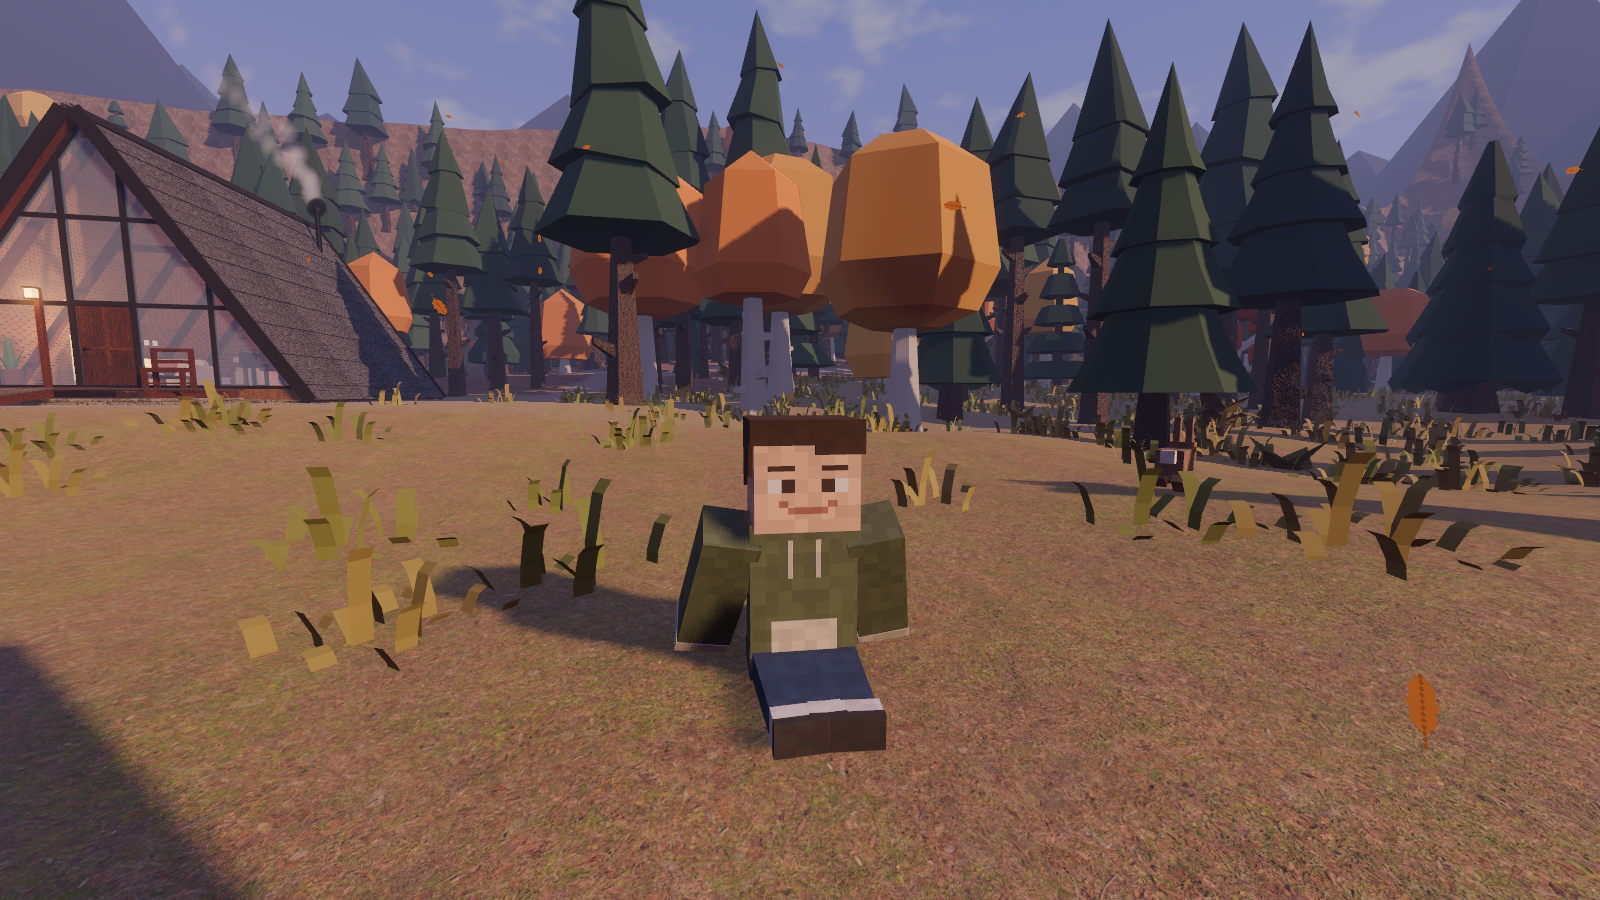
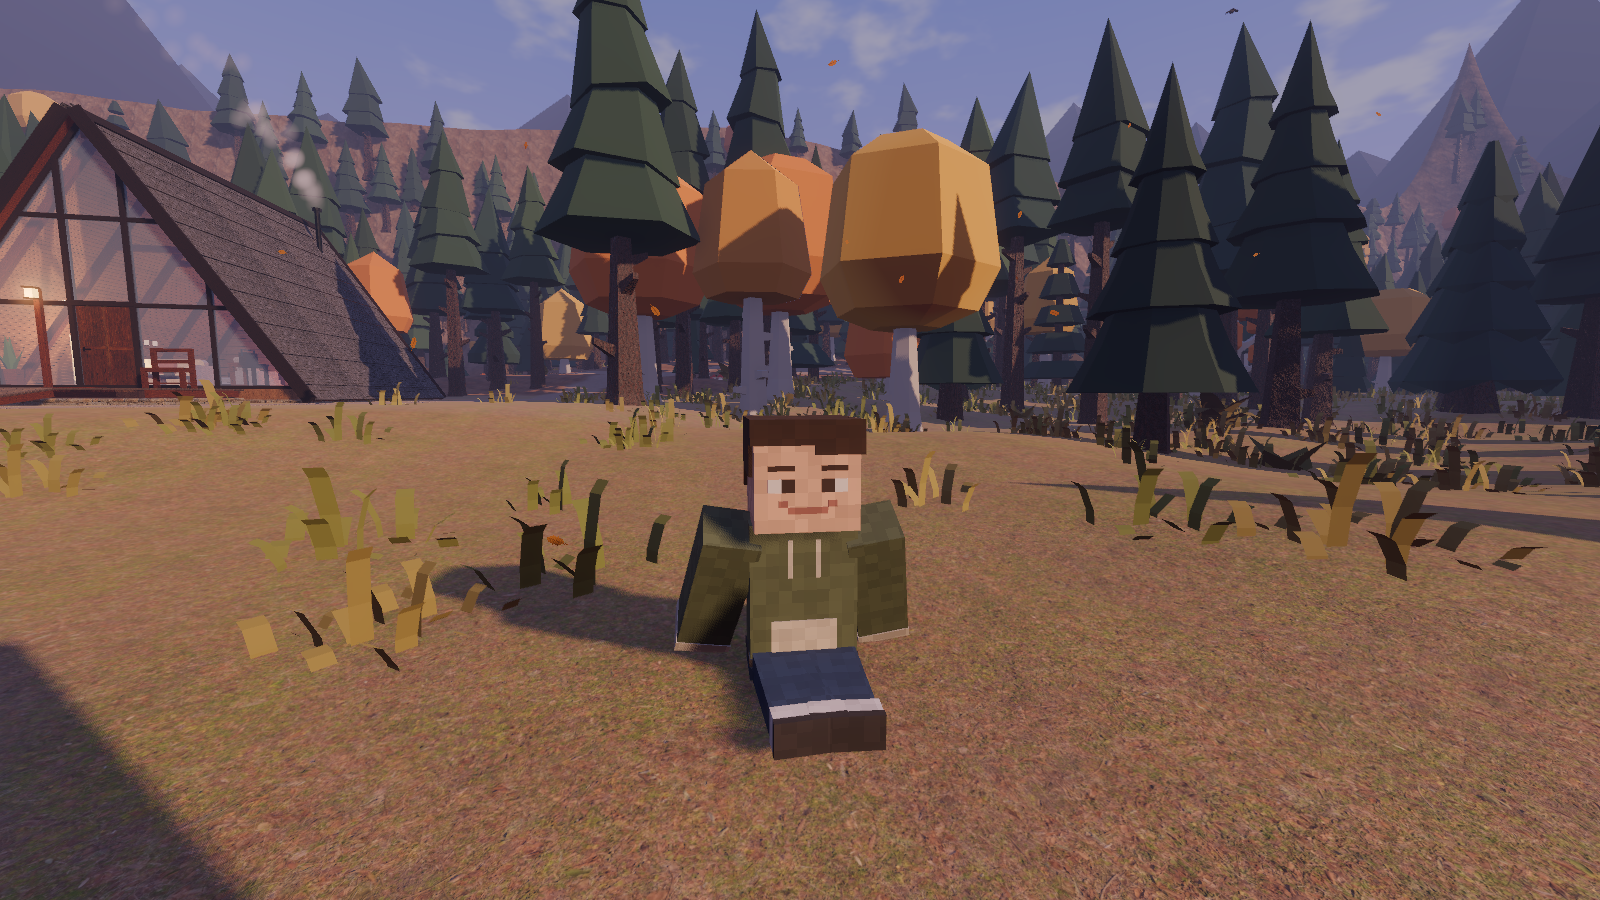
Document the action wheel, lighter rain, and benchmark on the performance base

diff --git a/docs/INTERACTIONS_WORLDMAP.md b/docs/INTERACTIONS_WORLDMAP.md
@@ -1,4 +1,4 @@
-# M2 扩展：动作栏、水族馆装饰、世界地图与全屏 验收记录（2026-10-21）
+# M2 扩展：动作轮盘、水族馆装饰、世界地图与全屏 验收记录（2026-10-21）
 
 ## 水族馆装饰（不再放长椅）
 
@@ -19,31 +19,40 @@
 |---|---|---|
 | ![](screenshots/m2g_01_aquarium_decor.png) | ![](screenshots/m2g_02_aquarium_manta.png) | ![](screenshots/m2g_03_aquarium_whale.png) |
 
-## 动作栏
+## 动作轮盘
 
-屏幕底部一排按钮，数字键随时可用；按 **G** 放出鼠标后可以直接点按钮（点完自动收回鼠标）。
+平时屏幕上不显示任何动作按钮。按 **G** 才在屏幕中央弹出一个四格轮盘（参考 GTA、堡垒之夜的表情轮盘）：
 
-| 键 | 动作 | 说明 |
+- **按住 G**，鼠标往某个方向一推，松开 G 就执行那一格；
+- **轻点 G**，轮盘留在屏幕上，用鼠标点一格；再按 G 或 Esc 收起。
+
+| 格子 | 快捷键 | 动作 |
 |---|---|---|
-| 1 | 坐下 | 席地而坐，双手撑在身后，视线降低约 0.7 m |
-| 2 | 躺下 | 平躺、抬眼看天（夜里能看星星和萤火虫）；第一人称时手收起来 |
-| 3 | 挥手 | 约 2.6 秒后自动结束 |
-| 4 | 跳舞 | 一直跳，直到走动或再按一次 |
-| 5 | 鼓掌 | 约 2.8 秒后自动结束 |
-| 6 | 拍照 | 隐藏界面拍一张当前画面，白光一闪，存到“图片\Dusk Lake”文件夹 |
+| 上：休息 | 1 | 合并了坐下和躺下：第一次是席地而坐（双手撑在身后，视线降低约 0.7 m），再选一次躺下（平躺抬眼看天，夜里能看星星和萤火虫），第三次起身。轮盘中央会提示下一步是“坐下 / 躺下 / 起身” |
+| 右：挥手 | 2 | 约 2.6 秒后自动结束 |
+| 下：跳舞 | 3 | 一直跳，直到走动或再选一次 |
+| 左：鼓掌 | 4 | 约 2.8 秒后自动结束 |
 
-- 坐、躺、跳舞再按同一个键就起身；按移动键、空格或 E 也会起身（起身那一下不会跳起来）。
+- 拍照不放在轮盘里，单独用 **F12**：隐藏界面拍一张当前画面，白光一闪，存到“图片\Dusk Lake”文件夹。
+- 按移动键、空格或 E 都会起身（起身那一下不会跳起来）。
 - 挥手、跳舞、鼓掌时自动切到第三人称看自己，做完切回第一人称（设置 → 操作 里可以关掉）。
 - 游泳、划船、坐在椅子上、飞行或在空中时不能做动作，会提示“现在不能……”。
-- 设置 → 操作：可以隐藏底部动作栏（数字键仍有效）。
+
+| 动作轮盘（按住 G 往上推） | 躺下看星星 |
+|---|---|
+| ![](screenshots/m2g_08_action_wheel.png) | ![](screenshots/m2g_07_lie_stars.png) |
 
 | 坐下 | 挥手 | 跳舞 |
 |---|---|---|
 | ![](screenshots/m2g_04_emote_sit.png) | ![](screenshots/m2g_05_emote_wave.png) | ![](screenshots/m2g_06_emote_dance.png) |
 
-| 动作栏 | 躺下看星星 |
-|---|---|
-| ![](screenshots/m2g_08_action_bar.png) | ![](screenshots/m2g_07_lie_stars.png) |
+## 雨：下得慢一点、雨丝细一点
+
+- 雨滴改成接近真实终端速度匀速下落（约 8–10 m/s），原来是约 25 m/s 往下砸。
+- 雨丝从 1.8 cm × 60 cm 缩到 1.1 cm × 30 cm，颜色更淡；同屏雨滴上限 9000 → 7000。落得慢以后每秒落地的雨滴（溅起的水花）约为原来的四成。
+- 雨仍然不进室内，屋檐下、泳池馆里照旧没有雨。
+
+![大雨](screenshots/m2g_12_rain_lighter.png)
 
 ## 季节飘落物：晴天不再满屏红点
 
@@ -79,27 +88,27 @@
 
 ## 自动检查
 
-`godot --headless --path . --fixed-fps 60 res://tests/TestRunner.tscn`：**52 / 52 通过**。新增 4 项：
+`godot --headless --path . --fixed-fps 60 res://tests/TestRunner.tscn`：**53 / 53 通过**（含性能优化 PR 的 49 项）。新增 4 项：
 
 | 检查 | 结果 |
 |---|---|
 | 水族馆不放长椅，换成珊瑚花坛与头顶吊饰 | 水族馆座位 0，珊瑚花坛 4，蝠鲼和鲸鱼离地 ≥ 1.95 m |
-| 动作栏 | 坐下眼睛降低 0.72 m；走动起身；躺下放平、视线低、手收起、再按起身；挥手举手后自动结束并切回第一人称；跳舞持续；鼓掌自动结束；游泳时拒绝 |
-| 晴天落叶零星，原版红点保留 | 秋天晴天 84 个（风 0.16）；切到原版红点 321 个；切回正常 |
+| 动作轮盘 | 平时不显示、G 弹出，四个方向选格正确；休息：坐下（眼睛降低 0.72 m）→ 躺下 → 起身；走动起身；躺下放平、视线低、手收起；挥手举手后自动结束并切回第一人称；跳舞持续；鼓掌自动结束；游泳时拒绝 |
+| 晴天落叶零星，原版红点保留 | 秋天晴天 89 个（风 0.18）；切到原版红点 329 个；切回正常 |
 | 全屏与世界地图 | F11 绑定、全屏切换、Tab 打开地图、当前世界暮色湖畔、规划中 2 个且不能进入 |
 
-## 性能（1920×1080，关垂直同步，RTX 5060 Laptop）
+## 性能（1920×1080，关垂直同步，RTX 5060 Laptop，叠在性能优化 PR 之上）
 
-| 机位 | FPS | 帧时 | 绘制调用 | 显存 |
-|---|---|---|---|---|
-| 湖岸出生点 | 154 | 6.5 ms | 959 | 876 MB |
-| 码头望木屋 | 109 | 9.2 ms | 2828 | 908 MB |
-| 木屋室内 | 111 | 9.0 ms | 2421 | 914 MB |
-| 北部林道 | 115 | 8.7 ms | 2552 | 914 MB |
-| 秋夜大雨·木屋外 | 153 | 6.5 ms | 1143 | 916 MB |
-| 冬日下雪·湖岸 | 148 | 6.8 ms | 1678 | 919 MB |
-| 泳池馆大厅 | 129 | 7.8 ms | 1194 | 919 MB |
-| 地下水族馆 | 100 | 10.0 ms | 3619 | 919 MB |
-| 夏夜雷雨·湖岸 | 160 | 6.2 ms | 1135 | 919 MB |
+| 机位 | 帧率 | GPU | CPU 渲染 | 绘制调用 | 显存 | 性能 PR 记录 |
+|---|---|---|---|---|---|---|
+| 湖岸出生点 | 143 FPS | 4.1 ms | 3.7 ms | 2073 | 812 MB | 127 FPS |
+| 码头望木屋 | 110 FPS | 4.1 ms | 6.1 ms | 3627 | 813 MB | 95 FPS |
+| 木屋室内 | 96 FPS | 5.6 ms | 5.6 ms | 3560 | 851 MB | 91 FPS |
+| 北部林道 | 120 FPS | 4.7 ms | 4.7 ms | 2613 | 851 MB | 116 FPS |
+| 秋夜大雨·木屋外 | 134 FPS | 4.8 ms | 3.6 ms | 1485 | 853 MB | 140 FPS |
+| 冬日下雪·湖岸 | 123 FPS | 4.2 ms | 4.4 ms | 2768 | 854 MB | 119 FPS |
+| 泳池馆大厅 | 129 FPS | 6.0 ms | 3.5 ms | 1737 | 854 MB | 127 FPS |
+| 地下水族馆 | 145 FPS | 5.9 ms | 2.8 ms | 616 | 854 MB | 150 FPS |
+| 夏夜雷雨·湖岸 | 133 FPS | 4.3 ms | 4.2 ms | 2346 | 854 MB | 136 FPS |
 
-水族馆多了 4 盏小灯和装饰，比上次记录（106 FPS）略低，在两次运行之间 ±10–20% 的波动范围内。
+水族馆多了 4 盏小灯和装饰（绘制调用 591 → 616），帧率变化在两次运行之间 ±10–20% 的波动范围内。

diff --git a/README.md b/README.md
@@ -69,7 +69,7 @@ pwsh -File devtools/fetch_polyhaven.ps1
 | 交互 | E（准星中心射线 2.5 m）：开关门、生火 / 熄火、开关灯、坐下 / 站起、睡觉、上 / 下独木舟 |
 | 划独木舟 | W / S 划、A / D 转向、Shift 用力划、E 下船（靠码头或岸边） |
 | 动作轮盘 | G（按住往方向推、松开选中；或轻点后用鼠标点）：休息（坐下 → 躺下 → 起身）、挥手、跳舞、鼓掌；快捷键 1–4 |
-| 拍照 | F12（存到“图片Dusk Lake”） |
+| 拍照 | F12（存到“图片\Dusk Lake”） |
 | 世界地图 | Tab（整张地图 + 世界总览，Esc 或 Tab 关闭） |
 | 全屏 | F11 或 Alt + Enter |
 | 第一 / 第三人称 | V（第一人称能看到自己的双手） |
